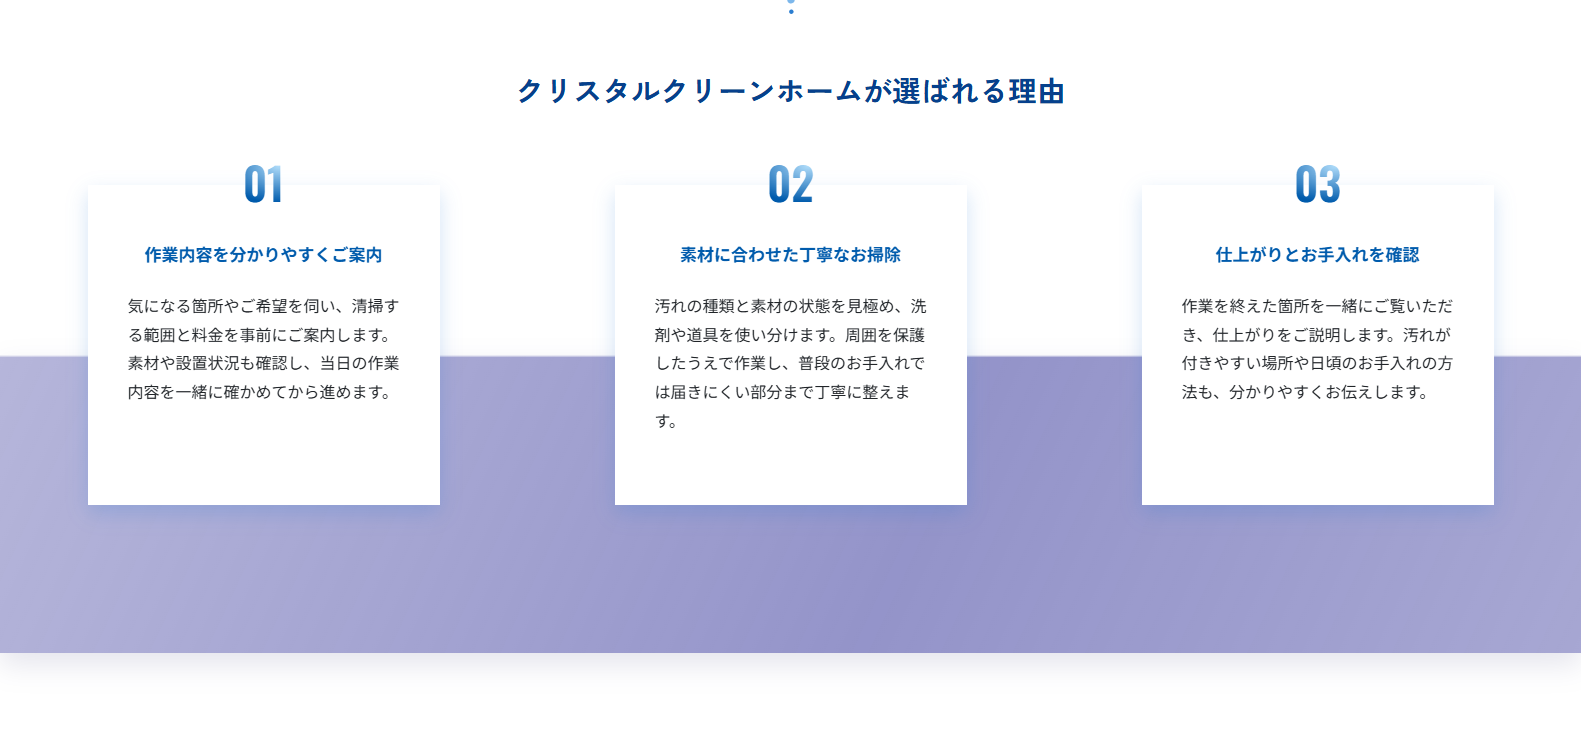
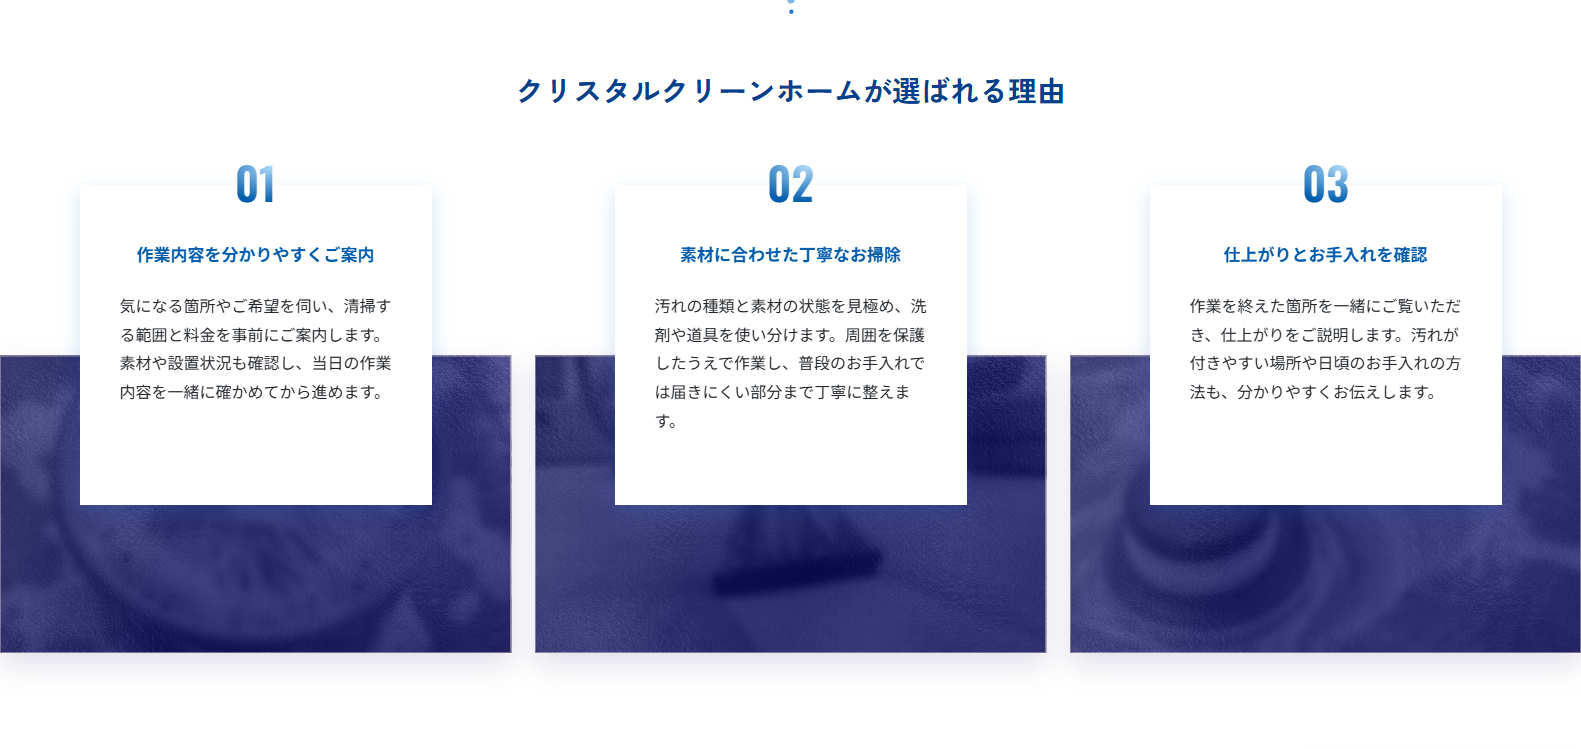
fix(aircon): separate translucent navy glass reason panels
Restore the three cleaning photos behind individually separated #000080 textured glass panels; keep the white reason cards and other pages unchanged.

Verified: 46 generated service pages, 97 identity pages, local source integrity, desktop/mobile screenshots. Related: CHG-2026-10-02-054.

diff --git a/source/site/assets/css/service-pages.css b/source/site/assets/css/service-pages.css
@@ -53,29 +53,43 @@
 }
 
 .c-service-page .c-reasons--glass-preview {
-  position: relative;
-  isolation: isolate;
-}
-
-.c-service-page .c-reasons--glass-preview::before {
-  content: "";
-  position: absolute;
-  inset: auto 0 0;
-  height: 298px;
-  z-index: 0;
-  background: linear-gradient(115deg, rgba(255, 255, 255, .4), rgba(255, 255, 255, .12) 58%, rgba(255, 255, 255, .28)), rgba(0, 0, 128, .48);
-  border-top: 1px solid rgba(255, 255, 255, .76);
-  box-shadow: inset 0 1px 0 rgba(255, 255, 255, .4), 0 12px 28px rgba(0, 0, 80, .1);
-  -webkit-backdrop-filter: blur(16px);
-  backdrop-filter: blur(16px);
+  column-gap: 24px;
 }
 
 .c-service-page .c-reasons--glass-preview .c-reasons__item {
+  isolation: isolate;
+}
+
+.c-service-page .c-reasons--glass-preview .c-reasons__bg {
+  z-index: 0;
+  filter: grayscale(1) brightness(.72);
+}
+
+.c-service-page .c-reasons--glass-preview .c-reasons__card {
+  z-index: 3;
+}
+
+.c-service-page .c-reasons--glass-preview .c-reasons__item::before {
+  content: "";
+  position: absolute;
+  bottom: 0;
+  left: 0;
+  width: 100%;
+  height: 298px;
   z-index: 1;
+  background: linear-gradient(115deg, rgba(255, 255, 255, .1), transparent 60%), rgba(0, 0, 128, .5);
+  border: 1px solid rgba(255, 255, 255, .55);
+  box-shadow: inset 0 1px 0 rgba(255, 255, 255, .35), 0 12px 28px rgba(0, 0, 80, .12);
+  -webkit-backdrop-filter: blur(4px);
+  backdrop-filter: blur(4px);
+  pointer-events: none;
 }
 
 .c-service-page .c-reasons--glass-preview .c-reasons__item::after {
-  content: none;
+  z-index: 2;
+  background: url("/assets/images/reasons/navy-textured-glass.png") center / 900px auto;
+  opacity: .35;
+  mix-blend-mode: luminosity;
 }
 
 .recommend-plan__heading,
@@ -114,26 +128,11 @@
 }
 
 @media (max-width: 767.98px) {
-  .c-service-page .c-reasons__item::after {
-    height: 232px;
-  }
-
-  .c-service-page .c-reasons--glass-preview::before {
-    content: none;
-  }
-
+  .c-service-page .c-reasons__item::after,
   .c-service-page .c-reasons--glass-preview .c-reasons__item::before {
-    content: "";
-    position: absolute;
-    inset: auto 0 0;
     height: 232px;
-    z-index: 0;
-    background: linear-gradient(115deg, rgba(255, 255, 255, .4), rgba(255, 255, 255, .12) 58%, rgba(255, 255, 255, .28)), rgba(0, 0, 128, .48);
-    border-top: 1px solid rgba(255, 255, 255, .76);
-    box-shadow: inset 0 1px 0 rgba(255, 255, 255, .4), 0 12px 28px rgba(0, 0, 80, .1);
-    -webkit-backdrop-filter: blur(16px);
-    backdrop-filter: blur(16px);
   }
+
 }
 
 @media (min-width: 1280px) {

diff --git a/source/site/house-cleaning/aircon/index.html b/source/site/house-cleaning/aircon/index.html
@@ -40,7 +40,7 @@
 <link rel="stylesheet" href="https://fonts.googleapis.com/css2?family=Noto+Sans+JP:wght@400;500;700&amp;family=Zen+Kaku+Gothic+New:wght@400;500;700&amp;display=swap">
 <link rel="stylesheet" href="/assets/css/site-typography.css?v=20261001">
 <script type="module" src="/assets/js/shared-translation-control.js"></script>
-<link rel="stylesheet" href="/assets/css/service-pages.css?v=2026100203"/>
+<link rel="stylesheet" href="/assets/css/service-pages.css?v=2026100205"/>
 </head>
   <body>
       <header class="c-header">
@@ -311,19 +311,19 @@
 <h3 class="c-reason-card__heading">作業内容を分かりやすくご案内</h3>
 <p class="c-reason-card__description">気になる箇所やご希望を伺い、清掃する範囲と料金を事前にご案内します。素材や設置状況も確認し、当日の作業内容を一緒に確かめてから進めます。</p>
 </div>
-</div>
+<img alt="" class="c-flex-image c-flex-image--stretched c-reasons__bg" decoding="async" height="1024" loading="lazy" src="/assets/images/service-scenes/reason-mop-bucket.webp" width="1536"/></div>
 <div class="c-reasons__item">
 <div class="c-reason-card c-reasons__card">
 <h3 class="c-reason-card__heading">素材に合わせた丁寧なお掃除</h3>
 <p class="c-reason-card__description">汚れの種類と素材の状態を見極め、洗剤や道具を使い分けます。周囲を保護したうえで作業し、普段のお手入れでは届きにくい部分まで丁寧に整えます。</p>
 </div>
-</div>
+<img alt="" class="c-flex-image c-flex-image--stretched c-reasons__bg" decoding="async" height="1024" loading="lazy" src="/assets/images/service-scenes/reason-carpet-extractor.webp" width="1536"/></div>
 <div class="c-reasons__item">
 <div class="c-reason-card c-reasons__card">
 <h3 class="c-reason-card__heading">仕上がりとお手入れを確認</h3>
 <p class="c-reason-card__description">作業を終えた箇所を一緒にご覧いただき、仕上がりをご説明します。汚れが付きやすい場所や日頃のお手入れの方法も、分かりやすくお伝えします。</p>
 </div>
-</div>
+<img alt="" class="c-flex-image c-flex-image--stretched c-reasons__bg" decoding="async" height="1024" loading="lazy" src="/assets/images/service-scenes/reason-floor-polisher.webp" width="1536"/></div>
 </div>
 </div>
 </div>

diff --git a/tools/build_service_pages.py b/tools/build_service_pages.py
@@ -302,10 +302,7 @@ def reasons(shared, glass_preview=False):
     for i,(item,words) in enumerate(zip(n.select('.c-reasons__item'),shared['reasons'])):
         item.select_one('h3').string = words[0]
         item.select_one('p').string = words[1]
-        if glass_preview:
-            item.select_one('img').decompose()
-        else:
-            image(item.select_one('img'), scenes[i], '')
+        image(item.select_one('img'), scenes[i], '')
     return n
 
 
@@ -431,7 +428,7 @@ def render(route, page, catalogue, copy):
     normalize_text(main)
     output, count = re.subn(r'<main\b[^>]*>.*?</main>',lambda _:str(main),original,count=1,flags=re.S)
     assert count == 1, route
-    css_version = '2026100203' if route == 'aircon' else '2026100202'
+    css_version = '2026100205' if route == 'aircon' else '2026100202'
     if '/assets/css/service-pages.css' not in output:
         output = output.replace('</head>',f'<link rel="stylesheet" href="/assets/css/service-pages.css?v={css_version}"/>\n</head>')
     output = re.sub(r'/assets/css/service-pages\.css\?v=\d+',

diff --git a/tools/verify_service_pages.py b/tools/verify_service_pages.py
@@ -50,11 +50,10 @@ for route,page in catalogue['pages'].items():
         fail(route,'service voice profile')
     reason_images = [img.get('src') for img in main.select('.c-reasons__bg')]
     expected_reasons = [f'/assets/images/service-scenes/reason-{name}.webp' for name in ('mop-bucket','carpet-extractor','floor-polisher')]
-    if route == 'aircon':
-        if reason_images or not main.select_one('.c-reasons--glass-preview'):
-            fail(route,'navy glass reason preview')
-    elif reason_images != expected_reasons:
+    if reason_images != expected_reasons:
         fail(route,'shared reason photographs')
+    if route == 'aircon' and not main.select_one('.c-reasons--glass-preview'):
+        fail(route,'navy glass reason preview')
     ids = [n['id'] for n in main.select('[id]')]
     if len(ids) != len(set(ids)): fail(route,'duplicate IDs')
     if len(main.select('.c-faq-accordion__item')) != 5: fail(route,'FAQ count')

diff --git a/変更履歴.md b/変更履歴.md
@@ -1,10 +1,21 @@
 # 変更履歴
 
+## CHG-2026-10-02-054 エアコンページの理由背景を独立した透明な紺色ガラスへ修正
+
+- 決定日：2026-10-02。
+- 人間からの要求：3枚の背景を1本の帯にせず、各カードの背後で分離する。指定色は navy `#000080`。無地の色面ではなく、提示した凹凸ガラスのように奥が透けて見える質感にする。まずエアコンカテゴリ1件だけで試す。
+- 決定内容：共通の清掃道具写真3点を各ガラス面の奥に残し、写真を弱くぼかす。各写真の前に `#000080` の半透明層と細かな凹凸の質感・控えめな光の反射を重ね、3枚の間に余白を設ける。手前の白いカードは維持する。
+- 変更理由：CHG-053で実装した連続した淡い帯は、依頼された3枚の独立したガラス面と透明感を満たしていなかったため。連続帯は実装側の解釈であり、人間の指定ではない。
+- 影響範囲：`/house-cleaning/aircon/` の「選ばれる理由」、専用CSS、背景素材、生成・検査ツール。
+- 維持する範囲：他の45サービスページ、3件の文章・白いカード・番号・寸法、商品・料金・CTA。
+- 同期した仕様書：Crystal-Clean-Home_要件定義書.md、Crystal-Clean-Home_仕様書.md。
+- ローカル確認：PC 1581px・スマホ390pxの表示を撮影し、3枚の分離、背面の写真の透過、凹凸の質感を確認。
+
 ## CHG-2026-10-02-053 エアコンページの選ばれる理由に紺色すりガラス帯を試作
 
 - 決定日：2026-10-02。
-- 人間からの要求：写真を敷いた最背面だけを、navy `#000080` を薄めたすりガラス調で試す。まずエアコンのカテゴリーページ1件だけに適用する。
-- 決定内容：`/house-cleaning/aircon/` の背面写真3点を淡い紺色のガラス帯へ置き換える。白い3カード、番号、見出し、本文は既存のまま残す。
+- 人間からの要求：白いカードの背後を、指定した navy `#000080` のすりガラス調で試す。まずエアコンのカテゴリーページ1件だけに適用する。
+- 当時の実装：`/house-cleaning/aircon/` の背面写真3点を淡い紺色の連続帯へ置き換えた。連続帯と淡い紫寄りの色は実装側の解釈であり、人間の指定ではない。後続のCHG-054で修正した。
 - 変更理由：セクション構成が確定する前に、周囲の青へ馴染みすぎず、堅実さを保てる配色を1ページで比較するため。
 - 影響範囲：エアコンのカテゴリーページ1件、ページ生成・検査ツール、共通CSS内の専用セレクター。
 - 維持する範囲：他の45サービスページと共通写真、商品・料金・CTA、手前の白い理由カード。

diff --git a/Crystal-Clean-Home_要件定義書.md b/Crystal-Clean-Home_要件定義書.md
@@ -65,4 +65,5 @@
 - [変更 2026-10-02 / CHG-2026-10-02-050] 46サービスページの声の見出しは各商品に固有の内容を保ちつつ、屋号ロゴと接触しない長さに短縮し、ロゴ幅を避けて配置する。6件の本文とカード数は維持する。
 - [変更 2026-10-02 / CHG-2026-10-02-051] `/house-cleaning/aircon/` の組み合わせプランは参照元ページと既存保管CSSの機種別タブ構造を再利用する。「壁掛けタイプ」は横2件、「天井埋め込みタイプ」は1件をタブで切り替え、PC・スマホで枠とCTAを同じ既存部品の寸法で表示する。3商品の価格・商品ID・数量選択・カート操作を維持し、説明文は各プランの内容に合わせる。
 - [変更 2026-10-02 / CHG-2026-10-02-052] 「選ばれる理由」の共通3写真は、提示された3枚の構図・清掃道具に合わせ、左から①泡のバケツとモップを上から近くで、②カーペットを洗浄する透明ノズルを床面の低い位置から、③泡を使って床を洗うポリッシャーを斜め上から写す。3枚とも道具と実際の清掃面を主役にし、人物・手・ロゴを写さない。全46サービスページに同じ3点を使用し、写真部分の薄いグレー層とカード構造は維持する。この決定はCHG-049の手元を写す3写真を置き換える。
-- [変更 2026-10-02 / CHG-2026-10-02-053] `/house-cleaning/aircon/` だけ、「選ばれる理由」の背面写真帯を navy `#000080` に白を重ねた淡いすりガラス調の帯へ試験的に変更する。手前の白い3カード、番号、見出し、本文、寸法は維持する。他の45サービスページの写真表示は変更せず、全ページへの展開はこの試作の確認後に判断する。このページに限りCHG-052の共通3写真ルールの例外とする。
+- [旧試作 2026-10-02 / CHG-2026-10-02-053・後続のCHG-054で撤回] `/house-cleaning/aircon/` だけで連続した淡い帯を試したが、3枚の分離と指定色・透明感を満たさなかった。連続帯は実装側の解釈であり、人間の指定ではない。
+- [変更 2026-10-02 / CHG-2026-10-02-054] CHG-053の連続した淡い帯は実装側の誤解として撤回する。`/house-cleaning/aircon/` の3件それぞれの背面を分離し、共通の清掃写真を奥に残す。指定色 navy `#000080` の半透明層、細かな凹凸、控えめな反射とぼかしを重ね、写真がうっすら透けるガラス面とする。白い3カード、番号、文章、寸法と他45ページは維持する。全ページへの展開はこの1ページの試作確認後に判断する。

diff --git a/Crystal-Clean-Home_仕様書.md b/Crystal-Clean-Home_仕様書.md
@@ -22,7 +22,7 @@
 - `/house-cleaning/aircon/` を除く45サービスページで同じ3点を左から順に表示する。①泡の入った青いバケツとモップを近い俯瞰で、②カーペットの洗浄ノズルと吸引される泡を床面の低い位置から、③泡の上で動く床洗浄機を斜め上から写す。道具と清掃面が一目で分かる距離・角度にし、人物・手・ロゴは含めない。
 - 実写調で現場の質感を残し、写真部分に薄いグレーの透過層を重ねる。カード3件の文章・位置・寸法は既存の構造を使う。画像ファイルは `source/site/assets/images/service-scenes/reason-{mop-bucket,carpet-extractor,floor-polisher}.webp`。
 - この3点を含むサービス写真には人物・手を写さないルールを適用する。
-- [変更 2026-10-02 / CHG-2026-10-02-053] `/house-cleaning/aircon/` では試作として写真3点を表示せず、navy `#000080` を透過させ、白い光沢と弱いぼかしを重ねた帯を背面に表示する。PCでは3カードの背後に連続した1本の帯、スマホでは各カードの背後に同色の帯を置く。白いカード3件の構造と文章は維持する。
+- [変更 2026-10-02 / CHG-2026-10-02-054] `/house-cleaning/aircon/` の試作では、各カードの背後に独立した3枚のガラス面を置く。共通の清掃道具写真3点を奥に残し、指定色 navy `#000080` の半透明層、細かな凹凸、控えめな白い反射と弱いぼかしを重ねる。写真の形がうっすら透け、PC・スマホともガラス面同士を離して表示する。白いカード3件の構造と文章は維持する。
 
 ## エアコンの組み合わせプラン
 
